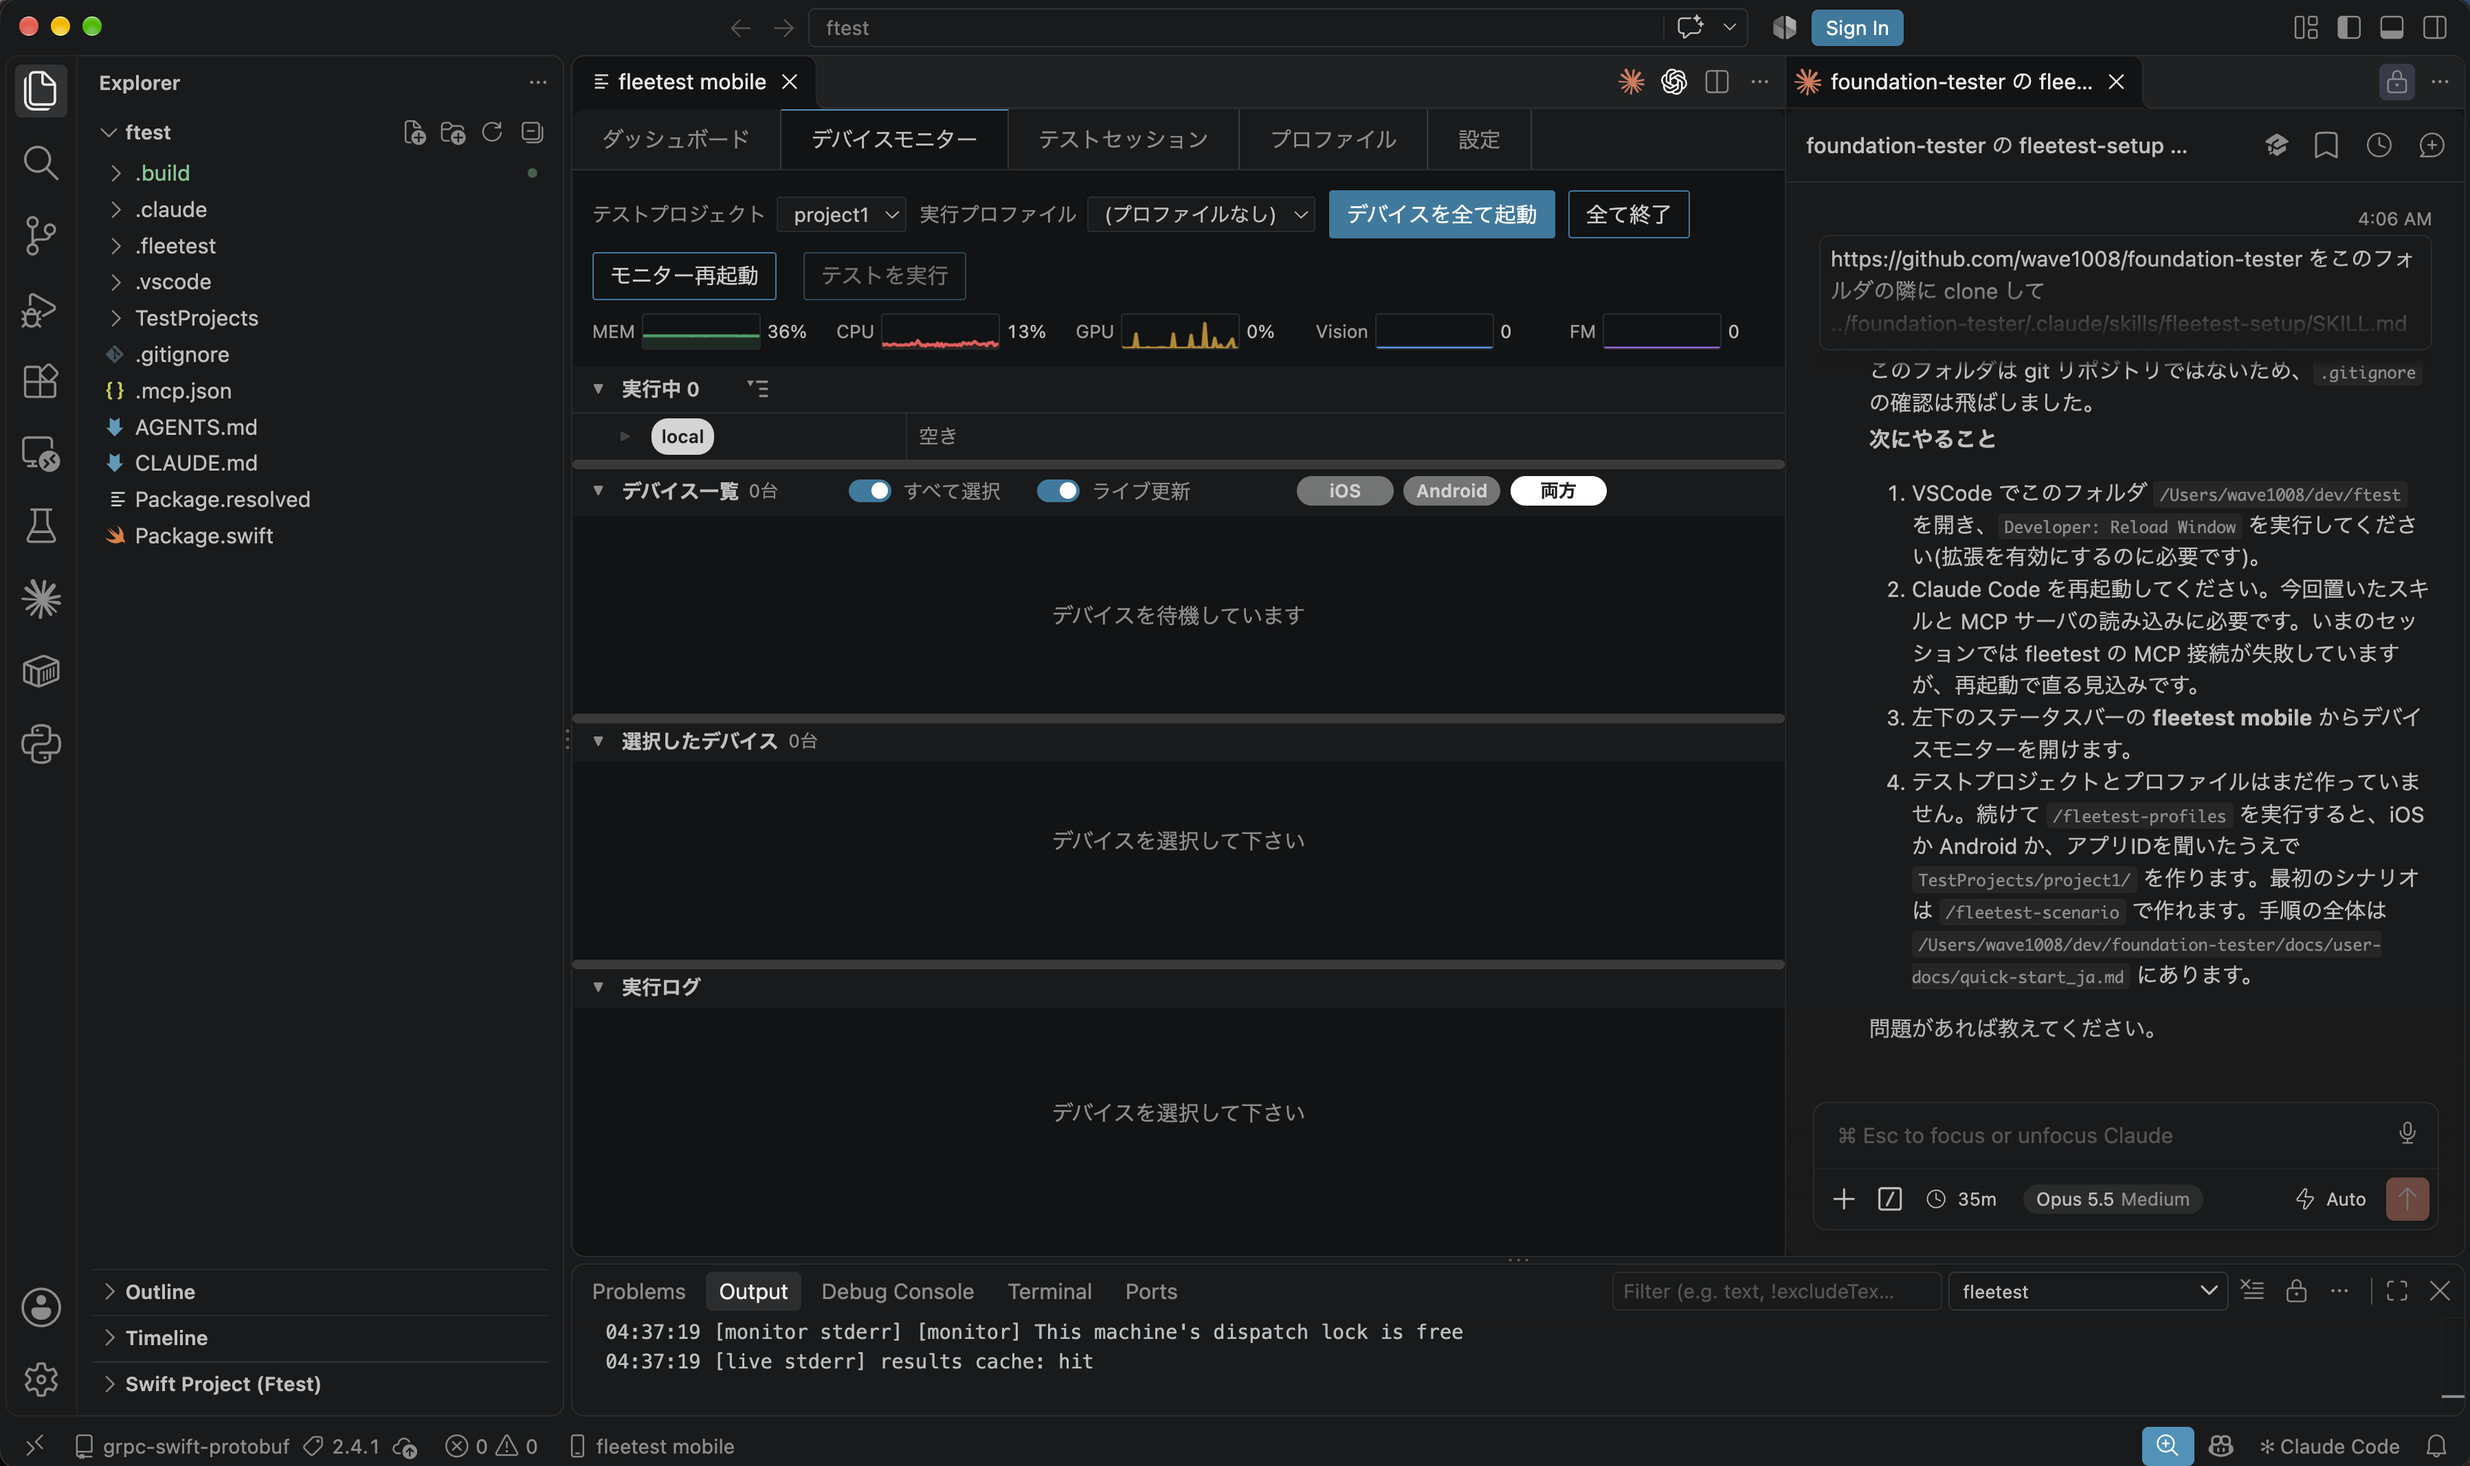
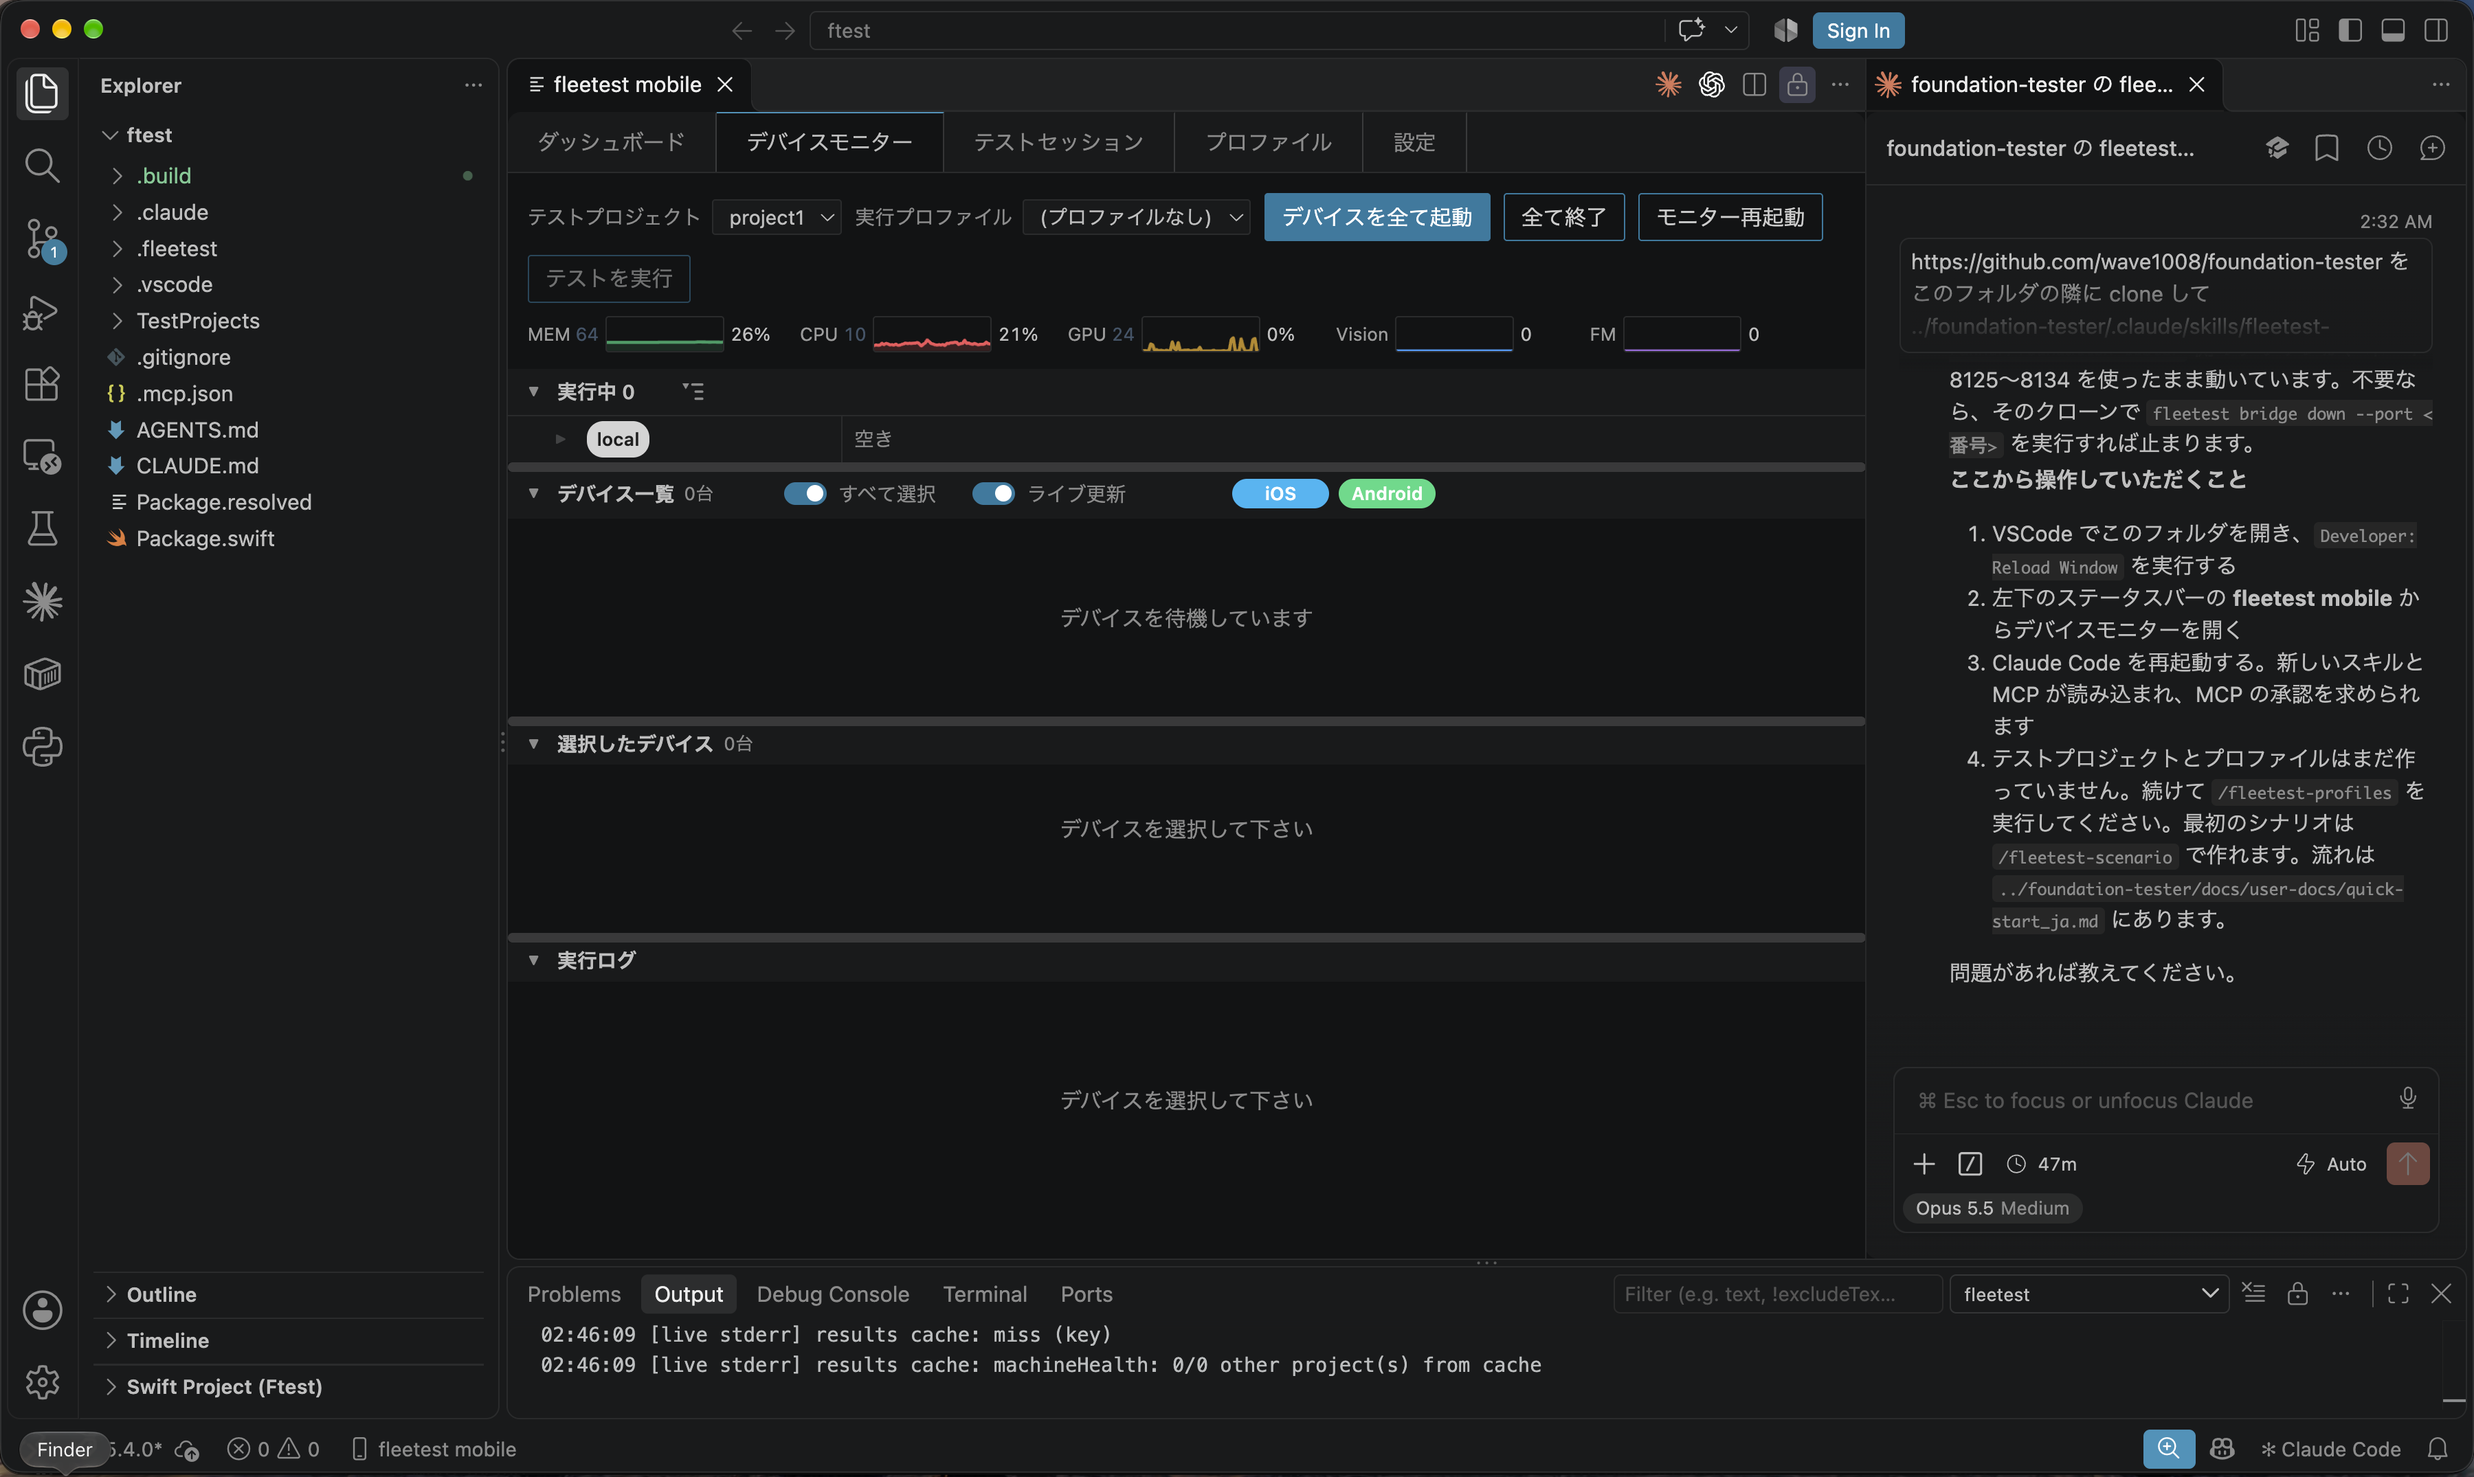
チュートリアルの AI への指示文を短くし、期待する結果と画像を今の画面に合わせて差し替える

diff --git a/docs/user-docs/tutorial/creating_tests_ja.md b/docs/user-docs/tutorial/creating_tests_ja.md
@@ -11,34 +11,33 @@
 ### AIへの指示文
 
 ```text
-fleetest のテストプロジェクト project1 で、SUT Store の「カートに追加するテスト」を1本作成して。ファイル名は カートに追加する.swift にして。
-基本ルート(正常に進む流れ)のテストで、検索画面で商品を探して(カテゴリで絞り込んでよい)、商品を開いてカートに追加し、カートにその商品が入っていることを確かめる。ログインは不要。
-作ったら、iOS(ios-run)で実行して確かめて。
+project1 で、テストとして カートに追加する.swift を作成して。
+基本ルートのテストとして、検索画面で「腕時計」を検索し、商品を開いてカートに追加し、カートにその商品が入っていることを確かめる。
+iOS(ios-run)で実行して確かめて。
 ```
 
 AIアシスタントは、コンパイルとデバイス無しの検証(dry-run)、デバイスでの実行まで行い、結果を報告します。
 
 期待する結果:
 
-- `scenarios/カートに追加する.swift` ができます。
-- コンパイル → dry-run → ios-run での実行が報告され、成功しています。
+- `scenarios/カートに追加する.swift` が作成されます。
+- テストが実行され、テストセッションタブにテストの履歴が追加されます。
 
-<img src="../images/tutorial/ja/ai_workflow.png" width="720" alt="画面を操作して読む、シナリオを書く、コンパイル、dry-run、デバイスで実行、結果を報告の順に進む">
-
-## 2. 既存のテストに足す
+## 2. 既存のテストファイルにテストを追加する
 
 ### AIへの指示文
 
 ```text
-fleetest のテストプロジェクト project1 の「カートに追加するテスト」(カートに追加する.swift)に、2本目のテストとして、
-ログインなしで、商品詳細で数量を3にしてカートに追加するケースを追加して。新しいファイルは作らないで。
-カートでその商品の数量が3になっていることを確かめる。作ったら、iOS(ios-run)で実行して確かめて。
+project1 の カートに追加する.swift に、2本目のテストを追加して。
+検索画面で「マフラー」を検索し、商品詳細で数量を3にしてカートに追加し、
+カートでその商品の数量が3になっていることを確かめて。
+iOS(ios-run)で実行して確かめて。
 ```
 
 期待する結果:
 
-- 同じファイルに2本目の `@Test` が増えます。
-- 2本とも通ります。
+- 同じファイルにテストシナリオが追加されます。
+- テストが実行され、テストセッションタブにテストの履歴が追加されます。
 
 <details>
 <summary><b>手動で実行する場合(クリックで詳細表示)</b></summary>

diff --git a/docs/user-docs/tutorial/investigating_failures.md b/docs/user-docs/tutorial/investigating_failures.md
@@ -12,7 +12,8 @@ To practice investigating, temporarily change an expected value in the add-to-ca
 ### Prompt for the AI
 
 ```text
-In the first test of the "add-to-cart test" (AddToCart.swift) of the fleetest test project project1, temporarily change just one expected value, the one that checks the product name in the cart, to a product name that does not exist.
+In the first test of AddToCart.swift in project1, temporarily change just one expected value, the one that checks the product name in the cart,
+to the nonexistent product name "Phantom Product A".
 Then run it on iOS (ios-run) and report only pass or fail. Don't fix it.
 ```
 
@@ -26,7 +27,7 @@ Expected result:
 ### Prompt for the AI
 
 ```text
-Summarize the latest run of the fleetest test project project1. If anything failed, list the failed scenarios and the steps where they failed.
+Summarize the latest run of project1. If anything failed, list the failed scenarios and the steps where they failed.
 ```
 
 <details>
@@ -49,9 +50,9 @@ Expected result:
 ### Prompt for the AI
 
 ```text
-Use the reports to find out why scenarios failed in the latest run of the fleetest test project project1, and report back.
-For each one, say whether it looks like an app bug or a problem with how the test is written.
-Don't fix the scenarios yet (and don't make them pass by adjusting expected values to match the app).
+Use the reports to find out why scenarios failed in the latest run of project1, and report back.
+Tell apart whether it is an app bug or a problem with how the test is written.
+Don't fix the scenarios yet.
 ```
 
 - Always add "don't fix them". If you ask for investigation and a fix at once, a test that failed because of an app bug may get made to pass by adjusting the expected value to match the app.
@@ -69,7 +70,7 @@ Expected result:
 ### Prompt for the AI
 
 ```text
-In the "add-to-cart test" (AddToCart.swift) of the fleetest test project project1, restore the expected value to the original product name, and re-run only the scenarios that failed on iOS last time.
+In AddToCart.swift in project1, restore the expected value to the original product name, and re-run only the scenarios that failed on iOS last time.
 ```
 
 <details>
@@ -87,11 +88,6 @@ Results are recorded per profile, so run it with the same profile as last time.
 Expected result:
 
 - Only the one test that had failed runs, and it passes.
-
-More details:
-
-- [Test result files](../reference/testclass/test_result_files.md)
-- [Analyzing results](../reference/running/results_analysis.md)
 
 <br>
 

diff --git a/docs/user-docs/tutorial/creating_tests.md b/docs/user-docs/tutorial/creating_tests.md
@@ -11,9 +11,9 @@ This suits your first test. It creates one test for the normal flow only (add er
 ### Prompt for the AI
 
 ```text
-In the fleetest test project project1, create one "add-to-cart test" for SUT Store. Name the file AddToCart.swift.
-It is a happy-path test (the normal flow): search for a product on the search screen (narrowing by category is fine), open it, add it to the cart, and check that the product is in the cart. No login is needed.
-When it is ready, run it on iOS (ios-run) to confirm.
+In project1, create AddToCart.swift as a test.
+As a happy-path test, search for "watch" on the search screen, open the product, add it to the cart, and check that the product is in the cart.
+Run it on iOS (ios-run) to confirm.
 ```
 
 The AI assistant compiles it, verifies it without a device (dry-run), runs it on a device, and reports the result.
@@ -21,24 +21,23 @@ The AI assistant compiles it, verifies it without a device (dry-run), runs it on
 Expected result:
 
 - `scenarios/AddToCart.swift` is created.
-- The compile, the dry-run, and the run with ios-run are reported, and they succeed.
+- The test runs, and its history is added to the Test Sessions tab.
 
-<img src="../images/tutorial/en/ai_workflow.png" width="720" alt="Operate and read the screen, write the scenario, compile, dry-run, run on a device, report the result">
-
-## 2. Add to an existing test
+## 2. Add a test to an existing test file
 
 ### Prompt for the AI
 
 ```text
-In the fleetest test project project1, add a second test to the "add-to-cart test" (AddToCart.swift):
-without logging in, set the quantity to 3 in the product details and add it to the cart. Don't create a new file.
-Check that the quantity of that product in the cart is 3. When it is ready, run it on iOS (ios-run) to confirm.
+Add a second test to AddToCart.swift in project1.
+Search for "scarf" on the search screen, set the quantity to 3 in the product details, add it to the cart,
+and check that the quantity of that product in the cart is 3.
+Run it on iOS (ios-run) to confirm.
 ```
 
 Expected result:
 
-- A second `@Test` is added to the same file.
-- Both tests pass.
+- A test scenario is added to the same file.
+- The test runs, and its history is added to the Test Sessions tab.
 
 <details>
 <summary><b>If you do it manually (click to show details)</b></summary>

diff --git a/docs/user-docs/tutorial/running_tests.md b/docs/user-docs/tutorial/running_tests.md
@@ -2,15 +2,14 @@
 
 [in Japanese(日本語)](running_tests_ja.md)
 
-Run the tests you created. AI is not used for the run itself (scenarios are replayed deterministically as code).
-This page runs the tests you made in the Quick Start and in "Creating tests" on iOS.
+Run all the tests you have created in project1 so far.
 
-## 1. Run (in parallel on three devices)
+## 1. Run
 
 ### Prompt for the AI
 
 ```text
-Run all scenarios in the fleetest test project project1 on iOS (ios-run) and report the results when it's done.
+Run project1 on iOS (ios-run) and report the results when it's done.
 ```
 
 <details>
@@ -35,17 +34,9 @@ In VSCode, select a scenario in the Test Explorer and click "Run" (choose the ru
 
 Expected result:
 
-- `ios-run` has the three devices you set up in the Quick Start and [Preparing devices](preparing_devices.md), so the scenarios are distributed to all three automatically.
-- The three devices in the Device Monitor run different scenarios at the same time.
-- A list of pass/fail appears when it finishes (no change to the scenarios is needed).
+- `ios-run` defines several devices. The scenarios are distributed to them automatically and run in parallel.
 
 <img src="../images/tutorial/en/parallel_run.png" width="640" alt="Example: fleetest distributes six scenarios across three devices automatically">
-
-More details:
-
-- [Running scenarios (fleetest run)](../reference/running/running_scenarios.md)
-- [Dry-run](../reference/running/dry_run.md)
-- [Parallel execution](../reference/running/parallel_execution.md)
 
 <br>
 

diff --git a/docs/user-docs/tutorial/preparing_app_server.md b/docs/user-docs/tutorial/preparing_app_server.md
@@ -11,24 +11,24 @@ start automatically on every `fleetest run` and stop when it ends. The details a
 ### Prompt for the AI
 
 ```text
-Read TestProjects/project1/workspace/scripts/compose.yaml of the fleetest test project project1 and explain
-which servers are declared and where the app connects to them (for the iOS Simulator and the Android Emulator separately).
-Don't change the file.
+Tell me about the servers project1 uses.
 ```
 
 Expected result:
 
-- The explanation names two declared services (the server and PostgreSQL).
-- It says the app connects to 127.0.0.1:8090 on the iOS Simulator and 10.0.2.2:8090 on the Android Emulator.
+- Information about the server and the db is shown.
 
 ## 2. Start it and check
 
 ### Prompt for the AI
 
 ```text
-Start the server with fleetest services up --project project1 --profile ios-run and confirm that /health on the published port returns ok.
-When confirmed, run services down and report the result.
+Start the servers project1 uses.
+Confirm that /health on the published port returns ok.
+Run services down and report the result.
 ```
+
+- If an MCP permission dialog appears, allow it.
 
 <details>
 <summary><b>If you do it manually (click to show details)</b></summary>
@@ -44,8 +44,7 @@ curl http://127.0.0.1:8090/health     # at the published port that was printed
 
 Expected result:
 
-- `services up` prints the published port and returns after the `healthcheck` passes.
-- `/health` returns `{"status":"ok","db":"up"}`.
+- The steps run as instructed and the result is reported.
 
 Related:
 

diff --git a/docs/user-docs/tutorial/watching_in_vscode_ja.md b/docs/user-docs/tutorial/watching_in_vscode_ja.md
@@ -11,7 +11,6 @@ AIアシスタントがテストを作り、実行している間の様子を、
 期待する結果:
 
 - 上から **ラインビュー**(デバイスのタイルの並び)・**グリッドビュー**(選択したデバイスの拡大表示)・**実行ログビュー**(選択したデバイスの実行ログ)の3ペイン。
-- 実行中の本数・残り時間。
 
 <img src="../images/tutorial/ja/vscode_device_monitor.png" width="720" alt="デバイスモニター">
 
